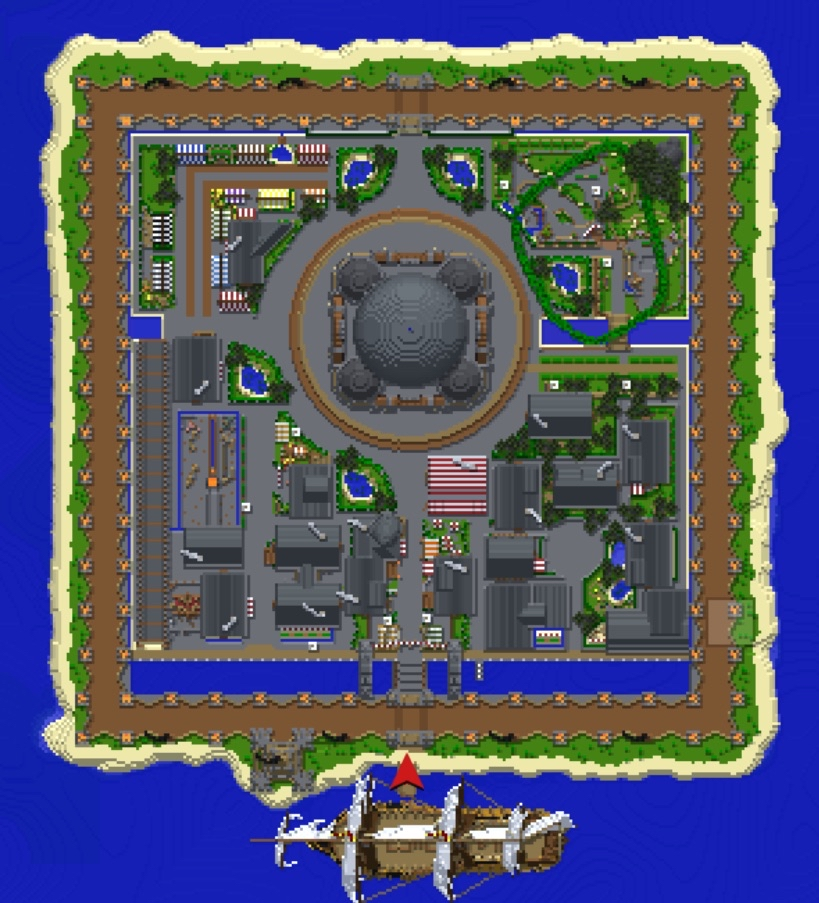
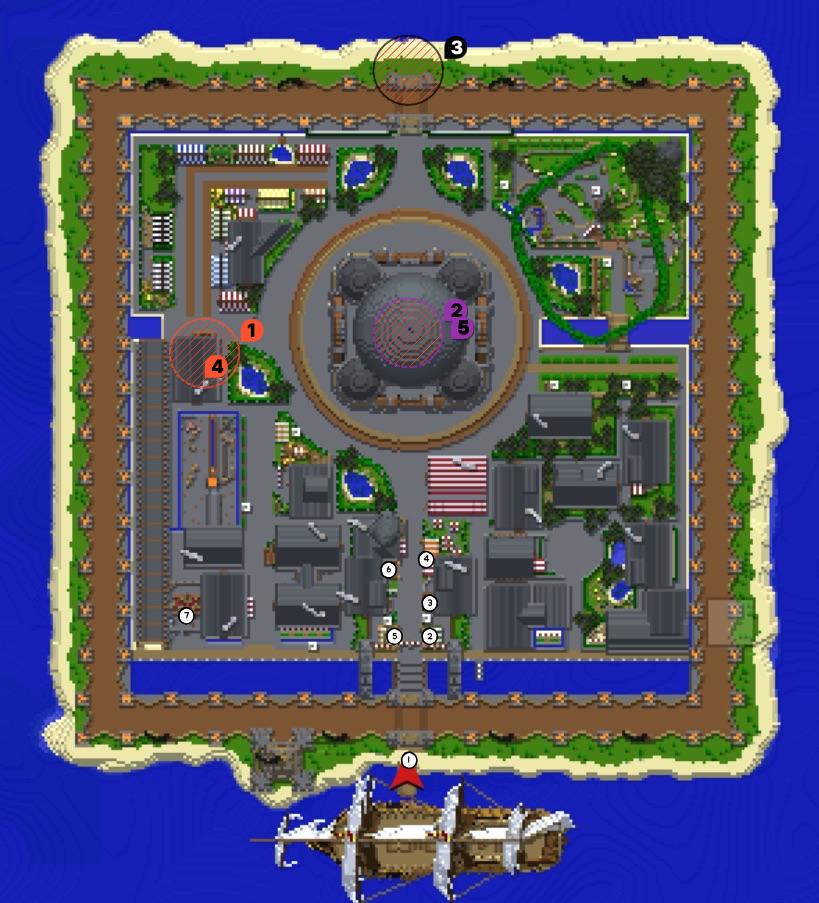
위르드 위키 섬 안내 엘도라도 업데이트

diff --git a/wyrd_wiki_homepage/pages/island/island_data.js b/wyrd_wiki_homepage/pages/island/island_data.js
@@ -269,7 +269,7 @@ const ISLAND_DATA = [
         requirements: {
             level: 25,
             recommended_bp: 300,
-            required_bp: null, // 요구 전투력 명시 안됨
+            required_bp: null, // 요구 전투력 명시 X
             special_entry: '세르툼에서 전조 퀘스트를 완료하고, 항해사에게 말을 걸어야 엘도라도 섬이 열립니다.'
         },
         map: {
@@ -279,7 +279,32 @@ const ISLAND_DATA = [
         },
         icon: 'island9.png',
         position: { x: 55, y: 78, tooltip: 'top' },
-        details: { npcs: [] }
+        details: {
+            npcs: [
+                { name: '항해사', coords: '3 -12 3 ①' },
+                { name: '낚시꾼', coords: '10 -8 -50 ②' },
+                { name: '창고지기', coords: '10 -8 -64 ③' },
+                { name: '전리품 상인', coords: '10 -8 -82 ④' },
+                { name: '포션 상인', coords: '-1 -8 -49 ⑤' },
+                { name: '수상한 사람(무역, 요리)', coords: '-2 -8 -78 ⑥' },
+                { name: '랫의 의뢰', coords: '-74 -27 -61 ⑦' }
+            ],
+            monsters: [
+                { name: '살아움직이는 꽃', coords: '빨간색 원 1번' },
+                { name: '휘날리는 서류다발', coords: '보라색 원 2번' }
+            ],
+            fieldWaves: [
+                { name: '꽃집 필드웨이브', coords: '1083 49 6 빨간색 4번' },
+                { name: '도서관 필드웨이브', coords: '1015 82 -57 보라색 5번' }
+            ],
+            raemHoles: [
+            ],
+            raids: [
+            ],
+            otherElements: [
+                { type: '장소', name: '카지노 거리', coords: '검은색 원 3번' },
+            ]
+        }
     },
     {
         id: 'island10',
